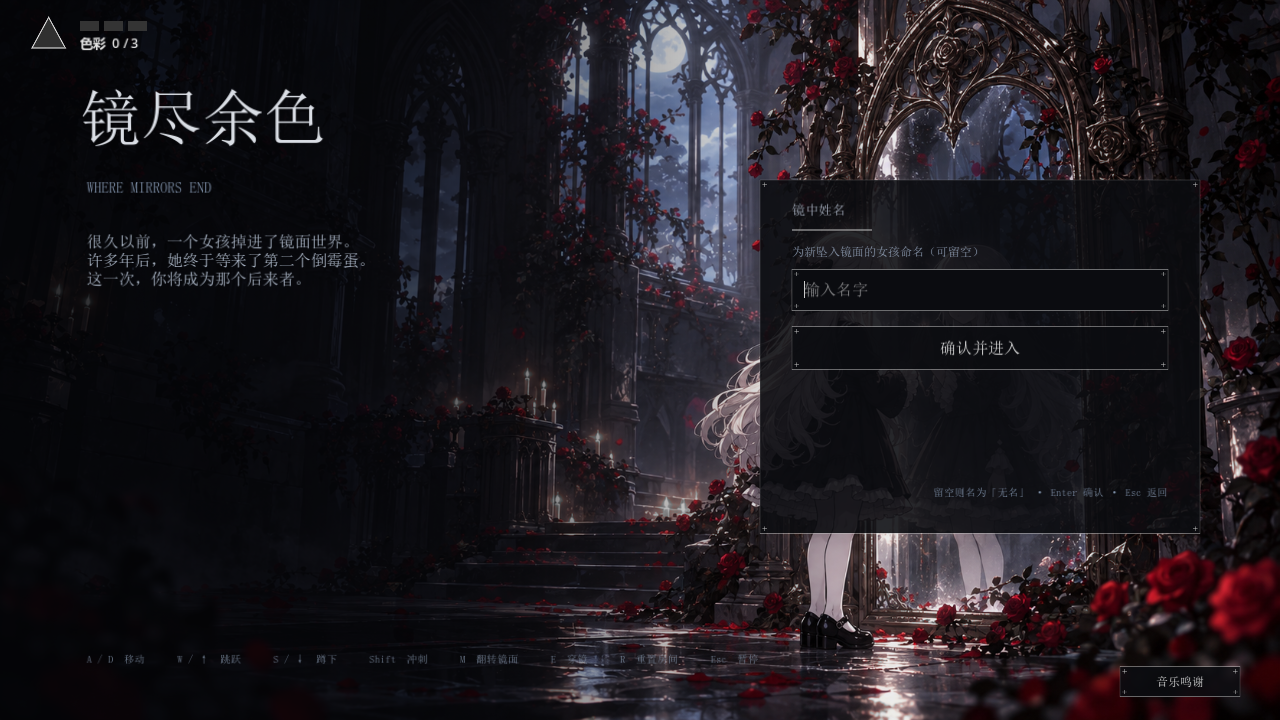
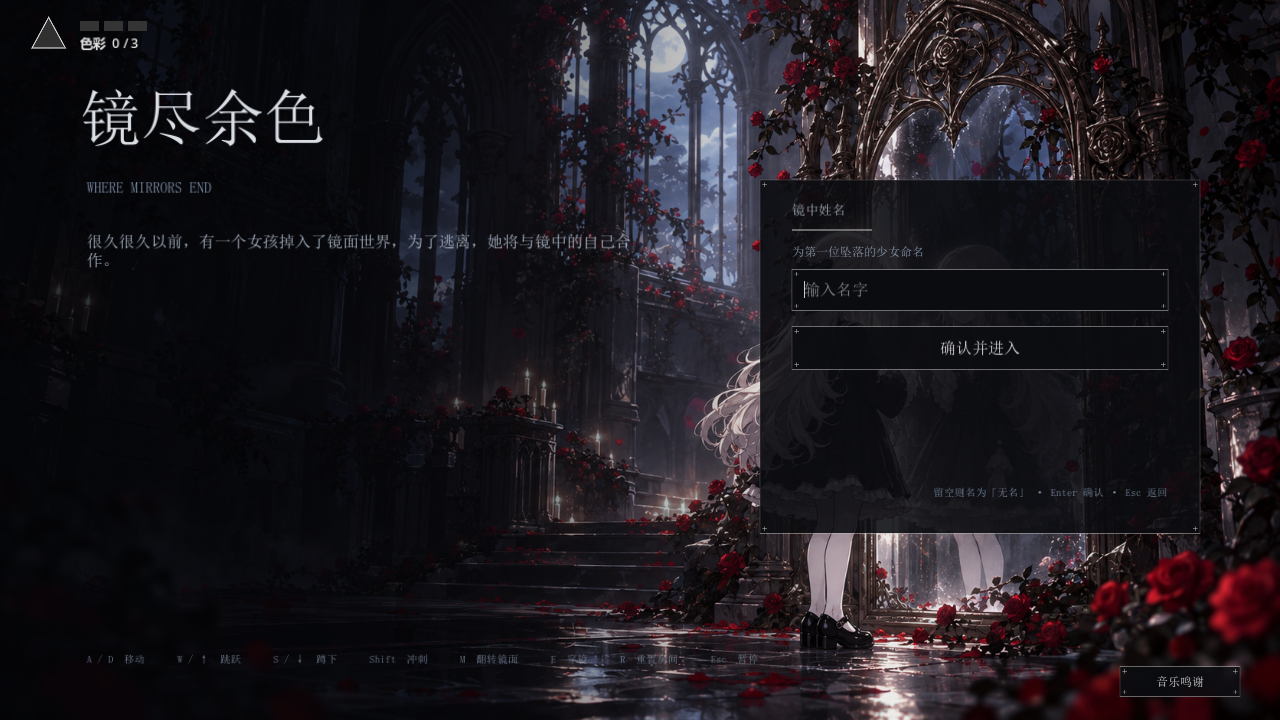
Update start-screen copy and add the darksky naming easter egg
- The story block now reads: 很久很久以前，有一个女孩掉入了镜面世界，为了逃离，她将与镜中的自己合作。
- The naming prompt names the first fallen girl; typing darksky (case-insensitive, trimmed) flips it to 为你自己命名, and any other text restores the original prompt.
- ui_flow covers both prompt states; start-menu captures refreshed.

Changed region(s): [[0.0625, 0.3056, 0.3125, 0.3972], [0.3438, 0.3056, 0.4688, 0.3667], [0.625, 0.3361, 0.75, 0.3667]]

diff --git a/docs/framework.md b/docs/framework.md
@@ -140,7 +140,7 @@ stateDiagram-v2
     EndingScreen --> TitleScreen: 「再走一次」
 ```
 
-- 标题（开始界面）：菜单首屏只有「踏入镜中 / 继续旅程 / 退出游戏」；点击「踏入镜中」后才展开命名步骤（`_open_naming()`），确认后 `_commit_name()` 调 `GameState.begin_game()`（清档）→ opening；`_continue()` → `load_from_disk()` 后按 `is_finale_pending()` / `is_game_complete()` 三分支（`scripts/title_screen.gd:50-97`）。Esc 在命名步骤返回菜单，在菜单则退出游戏。
+- 标题（开始界面）：菜单首屏只有「踏入镜中 / 继续旅程 / 退出游戏」；点击「踏入镜中」后才展开命名步骤（`_open_naming()`），确认后 `_commit_name()` 调 `GameState.begin_game()`（清档）→ opening；`_continue()` → `load_from_disk()` 后按 `is_finale_pending()` / `is_game_complete()` 三分支（`scripts/title_screen.gd:54-111`）。命名提示默认「为第一位坠落的少女命名」；输入 `darksky`（忽略大小写、去首尾空格）时切换为「为你自己命名」的彩蛋提示，改成其他名字即恢复。Esc 在命名步骤返回菜单，在菜单则退出游戏。
 - 序章：4 段 `STORY_LINES`（`scripts/opening.gd:5-10`）；进入时禁用镜像输入（:36-40），先等 0.7s 吞掉切场景残余输入（:64-65），最后淡出进 gameplay（:104-116）。
 - 关卡：`gameplay.gd:39-45` 在建关前先判断终幕/完成分支；否则 `LevelBuilder.build()` + spawn/checkpoint + 创建分身 + 绑定 `goal.collected`（:47-78）；收集/出口后 `advance_level()` 再 `load_level()`（:105-106）。R 键直接整关重建（:123-126）。
 - 暂停与中途退出：gameplay 与 finale 都带 `pause_menu.gd`（CanvasLayer 140），Esc（`ui_cancel`）打开；「继续游戏」恢复，「保存并返回标题」调用 `GameState.persist_run()` 写档后回开始界面。窗口关闭时 `GameState._on_close_requested()` 也会在 gameplay/finale 场景自动保存。
